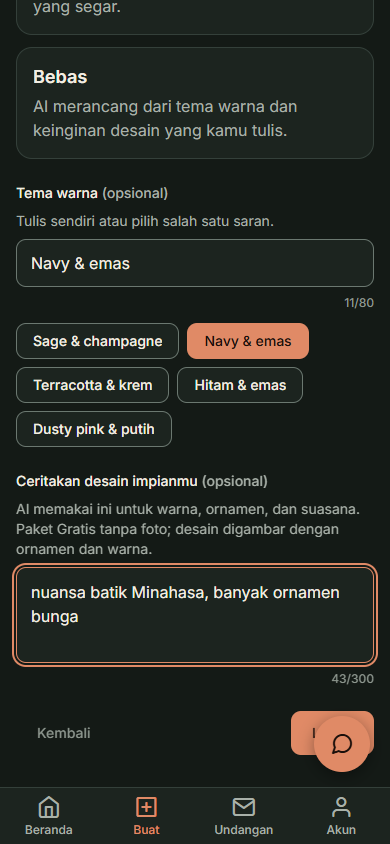
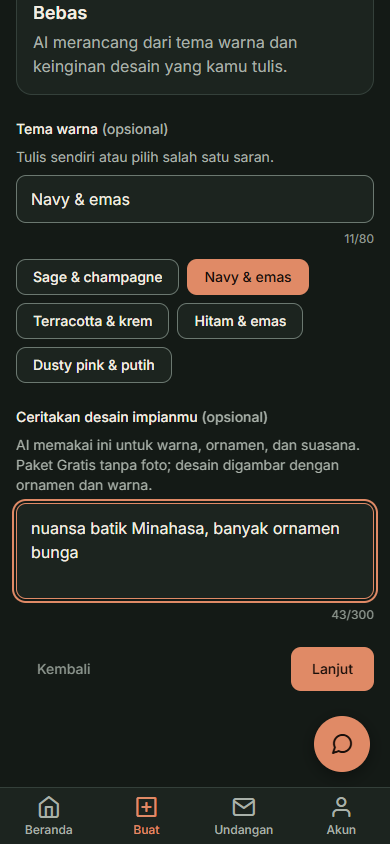
fix(app): tombol chat mengambang tidak lagi menutupi tombol di bawah layar

diff --git a/mobile/src/components/layout/AppShell.tsx b/mobile/src/components/layout/AppShell.tsx
@@ -2,7 +2,7 @@ import { usePathname } from 'expo-router';
 import React from 'react';
 import { View } from 'react-native';
 import { useTheme } from '../../theme';
-import { ChatFab } from './ChatFab';
+import { CHAT_FAB_CLEARANCE, ChatFab, ChatFabInset } from './ChatFab';
 import { Sidebar } from './Sidebar';
 import { TabBar } from './TabBar';
 import { activeKey, appNav, tabNav } from './nav';
@@ -13,12 +13,13 @@ export function AppShell({ children, userLabel }: { children: React.ReactNode; u
   const pathname = usePathname();
   const wide = bp !== 'mobile';
   const active = activeKey(wide ? appNav : tabNav, pathname);
+  const fab = !pathname.startsWith('/app/bantuan');
   return (
     <View style={{ flex: 1, flexDirection: wide ? 'row' : 'column', backgroundColor: colors.bg }}>
       {wide ? <Sidebar pathname={pathname} active={active} userLabel={userLabel} compact={bp === 'tablet'} /> : null}
-      <View nativeID="main" style={{ flex: 1 }}>{children}</View>
+      <View nativeID="main" style={{ flex: 1 }}><ChatFabInset.Provider value={fab ? CHAT_FAB_CLEARANCE : 0}>{children}</ChatFabInset.Provider></View>
       {wide ? null : <TabBar active={active} />}
-      {pathname.startsWith('/app/bantuan') ? null : <ChatFab aboveTabBar={!wide} />}
+      {fab ? <ChatFab aboveTabBar={!wide} /> : null}
     </View>
   );
 }

diff --git a/mobile/src/components/ui/Screen.tsx b/mobile/src/components/ui/Screen.tsx
@@ -2,6 +2,7 @@ import React from 'react';
 import { ScrollView, View, type StyleProp, type ViewStyle } from 'react-native';
 import Animated, { Easing, FadeInDown } from 'react-native-reanimated';
 import { maxWidth, useTheme } from '../../theme';
+import { useChatFabInset } from '../layout/ChatFab';
 
 type Props = {
   children: React.ReactNode;
@@ -17,8 +18,9 @@ const ENTER = FadeInDown.duration(560).easing(Easing.out(Easing.exp));
 /** Latar halaman + kontainer tengah dengan gutter dan lebar maksimal responsif. */
 export function Screen({ children, width = 'content', scroll = true, style }: Props) {
   const { colors, gutter } = useTheme();
+  const fab = useChatFabInset();
   const inner = (
-    <Animated.View entering={ENTER} style={[{ width: '100%', maxWidth: maxWidth[width], alignSelf: 'center', paddingHorizontal: gutter }, style]}>{children}</Animated.View>
+    <Animated.View entering={ENTER} style={[{ width: '100%', maxWidth: maxWidth[width], alignSelf: 'center', paddingHorizontal: gutter, paddingBottom: fab }, style]}>{children}</Animated.View>
   );
   return scroll ? (
     <ScrollView style={{ flex: 1, backgroundColor: colors.bg }} contentContainerStyle={{ flexGrow: 1 }}>{inner}</ScrollView>

diff --git a/mobile/src/components/layout/ChatFab.tsx b/mobile/src/components/layout/ChatFab.tsx
@@ -1,10 +1,15 @@
 import { useRouter } from 'expo-router';
-import React from 'react';
+import React, { createContext, useContext } from 'react';
 import { Pressable } from 'react-native';
 import Animated, { Easing, ZoomIn } from 'react-native-reanimated';
 import { useSafeAreaInsets } from 'react-native-safe-area-context';
 import { useTheme } from '../../theme';
 import { Icon } from '../ui';
+
+/** Ruang bawah yang harus disisakan layar agar isi terakhir (mis. tombol Lanjut) tidak tertutup tombol bantuan. */
+export const ChatFabInset = createContext(0);
+export const useChatFabInset = () => useContext(ChatFabInset);
+export const CHAT_FAB_CLEARANCE = 56 + 24 + 16; // tinggi tombol + jarak bawah + napas
 
 /** Tombol bantuan mengambang di area login (seperti ChatbotFAB versi lama), membuka /app/bantuan. */
 export function ChatFab({ aboveTabBar }: { aboveTabBar: boolean }) {

diff --git a/docs/superpowers/qa/2026-11-21-desain-undangan-ai.md b/docs/superpowers/qa/2026-11-21-desain-undangan-ai.md
@@ -45,7 +45,7 @@ Setelah login dengan akun uji, langkah "Gaya" menampilkan:
    - Prompt sudah mewajibkan kontras ≥ 4.5:1.
    - Belum diperbaiki.
 2. `gemini-3.5-flash` sering timeout (504 setelah sekitar 90 detik) saat permintaan sedang ramai. Akibatnya satu generate bisa memakan sekitar 2–3 menit sebelum beralih ke cadangan.
-3. Di luar lingkup: tombol chat mengambang di app menutupi tombol "Lanjut" di bagian bawah form (lihat `form-2-penuh.png`).
+3. Tombol chat mengambang sempat menutupi tombol "Lanjut" di form; diperbaiki dengan ruang bawah otomatis pada `Screen` di dalam AppShell (`form-2-penuh.png` memperlihatkan hasil setelah perbaikan).
 
 ## Bukti
 Gambar di folder `2026-11-21-desain-undangan-ai/`:
